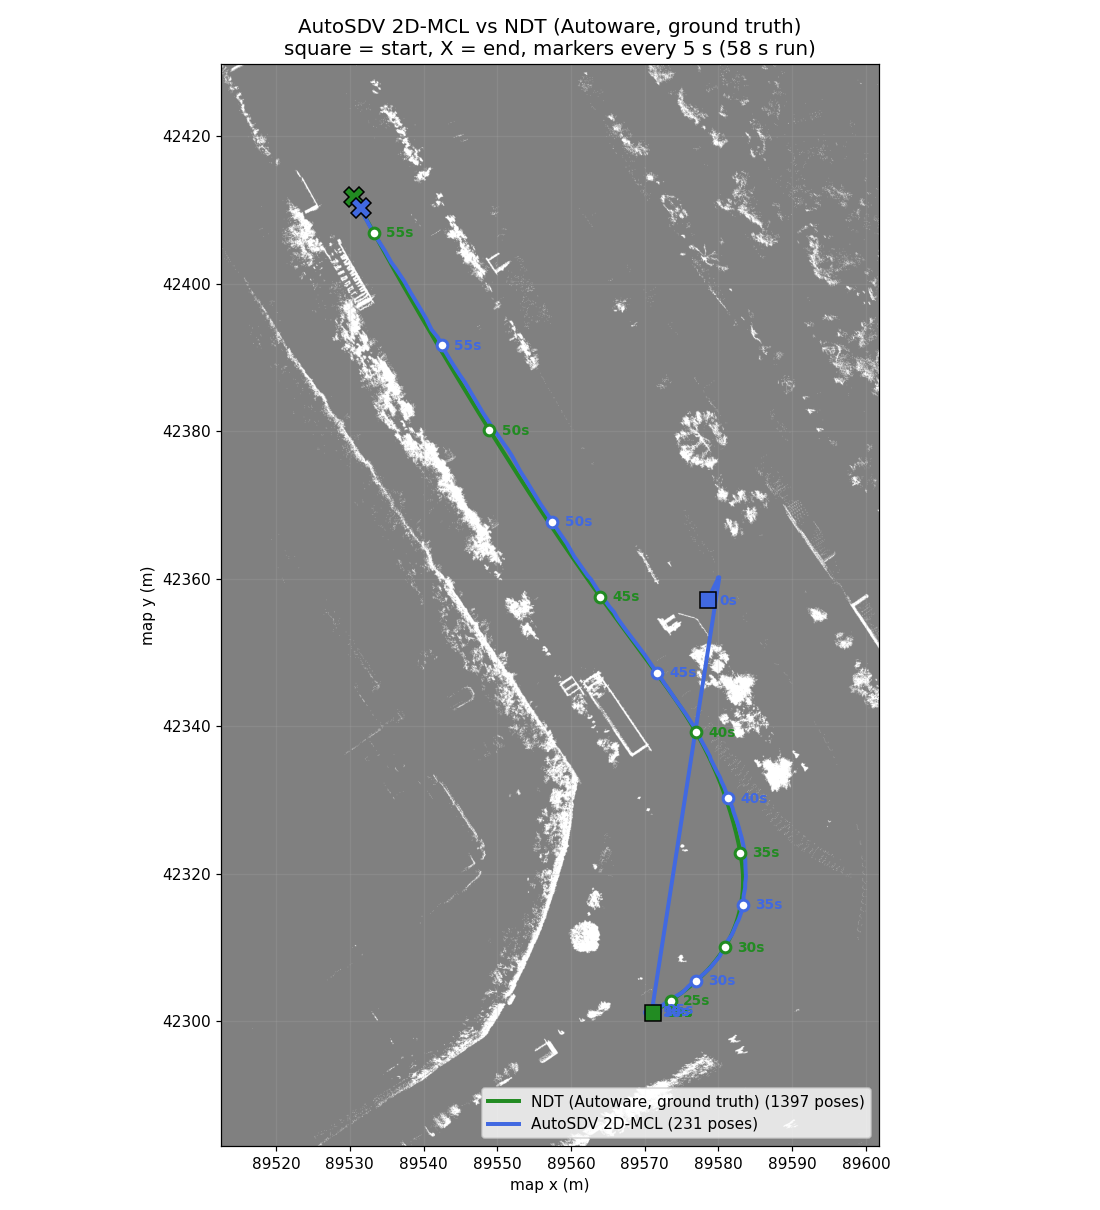
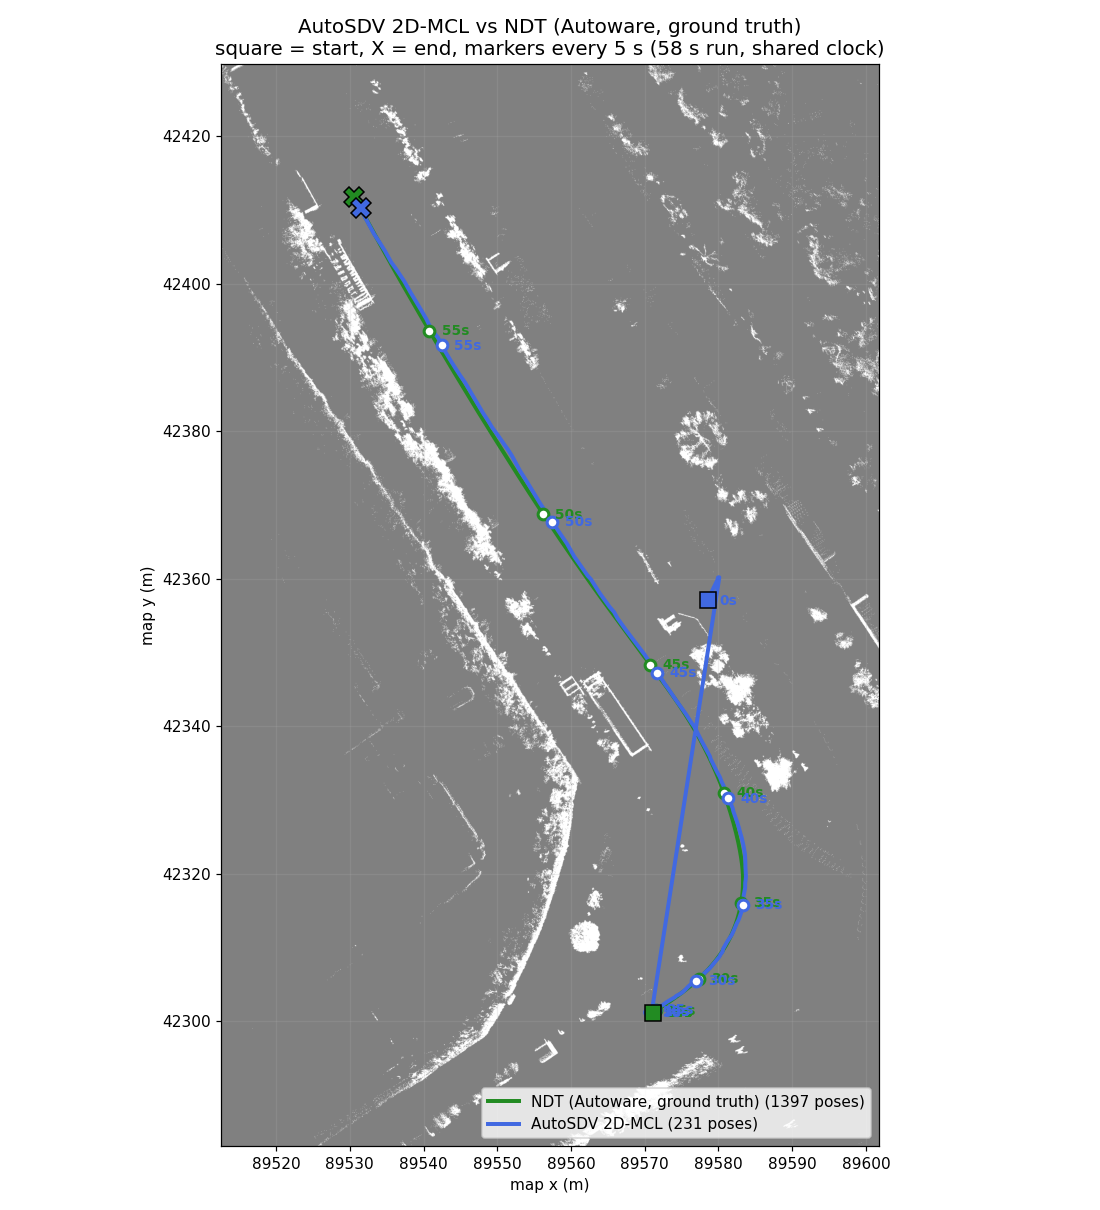
Put trajectory figures on one shared clock
Each track's time markers were measured from its own first pose, so a
label like "40s" marked a different instant on each track — misleading in
the overlay, where the two tracks start at different times because 2D-MCL
publishes from startup while the NDT ground truth only begins once its
own initialisation converges. All three figures now share one t0 (the
earlier of the two first poses), and a track's markers start only once it
has begun publishing.

Claude-Session: https://claude.ai/code/session_01Vs15KD1XHWQWCBNnz6keLW

diff --git a/scripts/2dlidar/plot_trajectories.py b/scripts/2dlidar/plot_trajectories.py
@@ -56,11 +56,21 @@ def load_grid(map_yaml):
     return grid, [ox, ox + width * res, oy, oy + height * res]
 
 
-def time_markers(ax, track, colour, mark_every):
-    """Annotate a track with elapsed-time markers every mark_every seconds."""
-    t0 = track[0][0]
+def time_markers(ax, track, colour, mark_every, t0):
+    """Annotate a track with elapsed-time markers every mark_every seconds.
+
+    t0 is supplied by the caller and shared by every track in the figure (and
+    across the three figures), so a given label marks the same instant on both
+    tracks. Deriving it per-track instead would silently shift one track's
+    labels relative to the other whenever they start at different times --
+    which they do here, since 2D-MCL publishes from startup while the NDT
+    ground truth only begins once its own initialisation converges.
+    """
     span = track[-1][0] - t0
+    first = track[0][0] - t0
     for mark in range(0, int(span) + 1, mark_every):
+        if mark < first - mark_every:
+            continue          # this track had not started publishing yet
         idx = int(np.argmin([abs(row[0] - (t0 + mark)) for row in track]))
         x, y = track[idx][1], track[idx][2]
         ax.plot(x, y, marker="o", ms=7, mfc="white", mec=colour, mew=2, zorder=5)
@@ -77,7 +87,7 @@ def time_markers(ax, track, colour, mark_every):
     return span
 
 
-def draw(tracks, title, out_path, grid, extent, limits, mark_every):
+def draw(tracks, title, out_path, grid, extent, limits, mark_every, t0):
     """Draw one or more (track, label, colour) tuples onto the grid."""
     fig, ax = plt.subplots(figsize=(10, 11))
     ax.imshow(
@@ -89,7 +99,7 @@ def draw(tracks, title, out_path, grid, extent, limits, mark_every):
         xs = [row[1] for row in track]
         ys = [row[2] for row in track]
         ax.plot(xs, ys, "-", c=colour, lw=2.6, label=f"{label} ({len(track)} poses)", zorder=3)
-        spans.append(time_markers(ax, track, colour, mark_every))
+        spans.append(time_markers(ax, track, colour, mark_every, t0))
         ax.plot(xs[0], ys[0], marker="s", ms=11, mfc=colour, mec="k", zorder=7)
         ax.plot(xs[-1], ys[-1], marker="X", ms=13, mfc=colour, mec="k", zorder=7)
 
@@ -100,7 +110,7 @@ def draw(tracks, title, out_path, grid, extent, limits, mark_every):
     ax.set_xlabel("map x (m)")
     ax.set_ylabel("map y (m)")
     ax.set_title(f"{title}\nsquare = start, X = end, markers every {mark_every} s "
-                 f"({max(spans):.0f} s run)", fontsize=13)
+                 f"({max(spans):.0f} s run, shared clock)", fontsize=13)
     ax.legend(loc="lower right", fontsize=10)
     ax.grid(alpha=0.2)
     fig.tight_layout()
@@ -137,7 +147,10 @@ def main(argv=None):
 
     out_dir = Path(args.out_dir)
     out_dir.mkdir(parents=True, exist_ok=True)
-    common = dict(grid=grid, extent=extent, limits=limits, mark_every=args.mark_every)
+    # one clock for all three figures: earliest pose of either track
+    t0 = min(gt[0][0], mcl[0][0])
+    common = dict(grid=grid, extent=extent, limits=limits,
+                  mark_every=args.mark_every, t0=t0)
 
     draw([(gt, NDT_LABEL, NDT_COLOUR)], NDT_LABEL,
          out_dir / f"{args.prefix}-ndt.png", **common)
